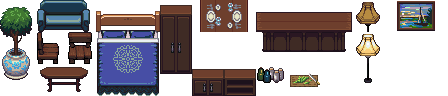
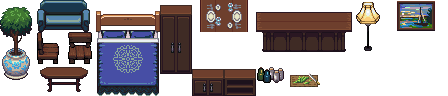
GAME-146: торшер вітальні — один абажур (рядок 0 аркуша Lighting — окремий абажур, не частина лампи)
Claude-Session: https://claude.ai/code/session_01RoJJJhaZjeur2b1tUo6iMd

Changed region(s): [[0.7812, 0.3438, 0.875, 0.875], [0.7812, 0.0, 0.8438, 0.2812]]

diff --git a/scripts/assets/build_home_interior.py b/scripts/assets/build_home_interior.py
@@ -82,7 +82,8 @@ SHEETS = [
     # ст. 0: вазон 1×3 · ст. 1–2 р. 0: диван 2×1 синій · (1,1) стілець обличчям, (2,1) стілець спинкою ·
     # ст. 1–2 р. 2: журнальний столик 2×1 · ст. 3–4: ліжко 2×3 (узголів'я + подушки + матрац) · ст. 5: шафа 1×3 ·
     # ст. 6–7 р. 0: накритий обідній стіл 2×1 · (6,2) тумба · (7,2) настінна полиця · ст. 8–10 р. 0–1: стільниця 3×2 ·
-    # (8,2) пляшки, (9,2) дошка з зеленню · ст. 11: торшер 1×3 · ст. 12–13 р. 0: картина 2×1 «дерево біля річки».
+    # (8,2) пляшки, (9,2) дошка з зеленню · ст. 11 р. 0–1: торшер 1×2 (аркуш Lighting стовпець 1, рядки 1–2; рядок 0 там —
+    # окремий абажур, не частина торшера — через нього в v2 лампа мала два абажури) · ст. 12–13 р. 0: картина 2×1.
     ('home-furniture', 'home_furniture.png', (14, 3), [
         (f'{KIT}/Decoration/Planters.png', (64, 0, 32, 96), (0, 0)),
         (f'{KIT}/Furniture/Sofas, Casual.png', (128, 32, 64, 32), (32, 0)),
@@ -99,7 +100,7 @@ SHEETS = [
         (f'{KIT}/Furniture/Countertops.png', (96, 128, 96, 64), (256, 0)),
         (f'{KIT}/Decoration/Clutter.png', (160, 64, 32, 32), (256, 64)),
         (f'{KIT}/Decoration/Clutter.png', (96, 64, 32, 32), (288, 64)),
-        (f'{KIT}/Lighting & Fire/Lighting.png', (32, 0, 32, 96), (352, 0)),
+        (f'{KIT}/Lighting & Fire/Lighting.png', (32, 32, 32, 64), (352, 0)),
         (f'{KIT}/Decoration/Paintings.png', (192, 0, 64, 32), (384, 0)),
     ]),
     # [LPC Revised] The Office, OGA-BY 3.0: ст. 0–2: письмовий стіл 3×2 (Desk, Ornate рядки 2–3); (3,0) ноутбук;
@@ -224,7 +225,7 @@ def build_grid(sheets):
     WIN = ('home-windows-doors', 0, 0, 2, 3)
     g.stamp(F, 1, 0, 2, 1, 0, 3, {0});                 item('sofa', 'sofa', 0, 3, 2, 1)
     g.stamp(F, 12, 0, 2, 1, 0, 1, set());              item('painting', 'painting.river', 0, 1, 2, 1)
-    g.stamp(F, 11, 0, 1, 3, 2, 1, {2});                item('lamp', 'lamp.floor', 2, 3)
+    g.stamp(F, 11, 0, 1, 2, 2, 2, {1});                item('lamp', 'lamp.floor', 2, 3)
     g.stamp(*WIN, 3, 0, set()); g.stamp(*WIN, 5, 0, set()); item('window', 'window.living', 3, 0, 4, 3)
     g.stamp('home-windows-doors', 2, 0, 1, 2, 7, 1, set()); item('door', 'door.front', 7, 1, 1, 2)
     g.stamp('home-shelf', 0, 0, 2, 3, 8, 1, {2});      item('shelf', 'bookshelf', 8, 3, 2, 1)
